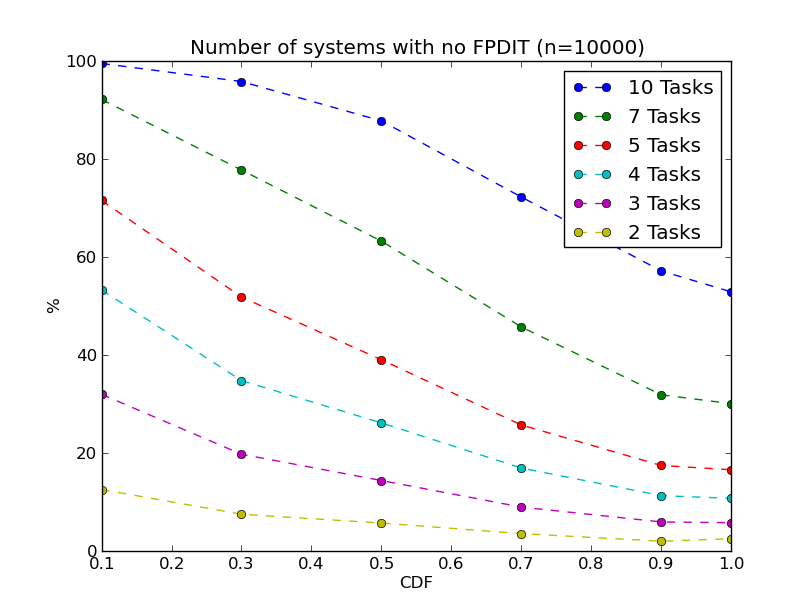
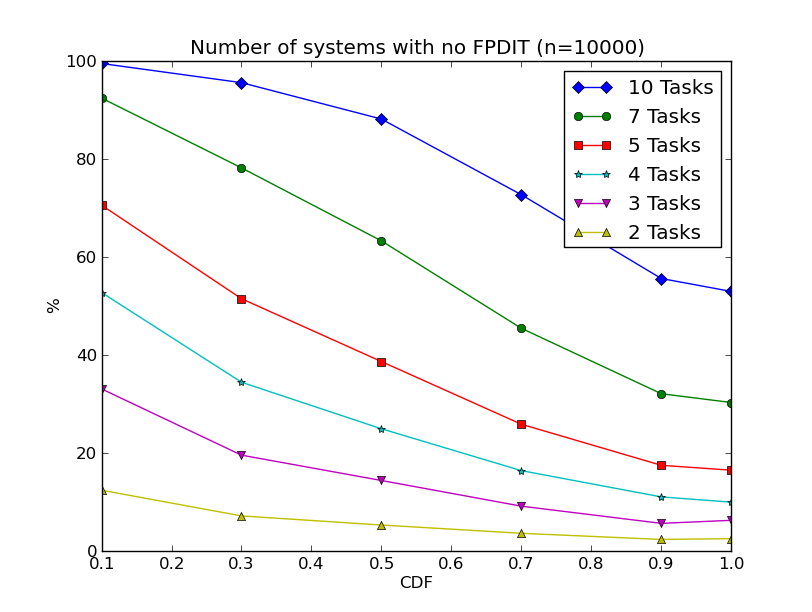
NoFPDIT Figure is now black-and-white-proof

diff --git a/python-simulation/mainNoFPDIT.py b/python-simulation/mainNoFPDIT.py
@@ -32,6 +32,7 @@ if __name__ == '__main__':
     noFPDITpcts = {}
     CDFvalues = [0.1, 0.3, 0.5, 0.7, 0.9, 1.0]
     nValues = [2, 3, 4, 5, 7, 10]
+    symbols = ['D', 'o', 's', '*', 'v', '^']
     for taskCnt in nValues:
         print("n", taskCnt)
         noFPDITpcts[taskCnt] = {}
@@ -45,11 +46,11 @@ if __name__ == '__main__':
             noFPDITpcts[taskCnt][constrDeadlineFactor] = (100*firstDitsCnt)/NUMBER_OF_SYSTEMS
 
     pylab.figure()
-    for taskCnt in reversed(nValues):
+    for i, taskCnt in enumerate(reversed(nValues)):
         noFPDITpctsPerCDF = []
         for cdf in CDFvalues:
             noFPDITpctsPerCDF.append(noFPDITpcts[taskCnt][cdf])
-        pylab.plot(CDFvalues, noFPDITpctsPerCDF, "--o", label=str(taskCnt) + " Tasks")
+        pylab.plot(CDFvalues, noFPDITpctsPerCDF, "-" + str(symbols[i]), label=str(taskCnt) + " Tasks")
     pylab.ylabel("%")
     pylab.xlabel("CDF")
     pylab.title("Number of systems with no FPDIT (n=" + str(NUMBER_OF_SYSTEMS) + ")")
